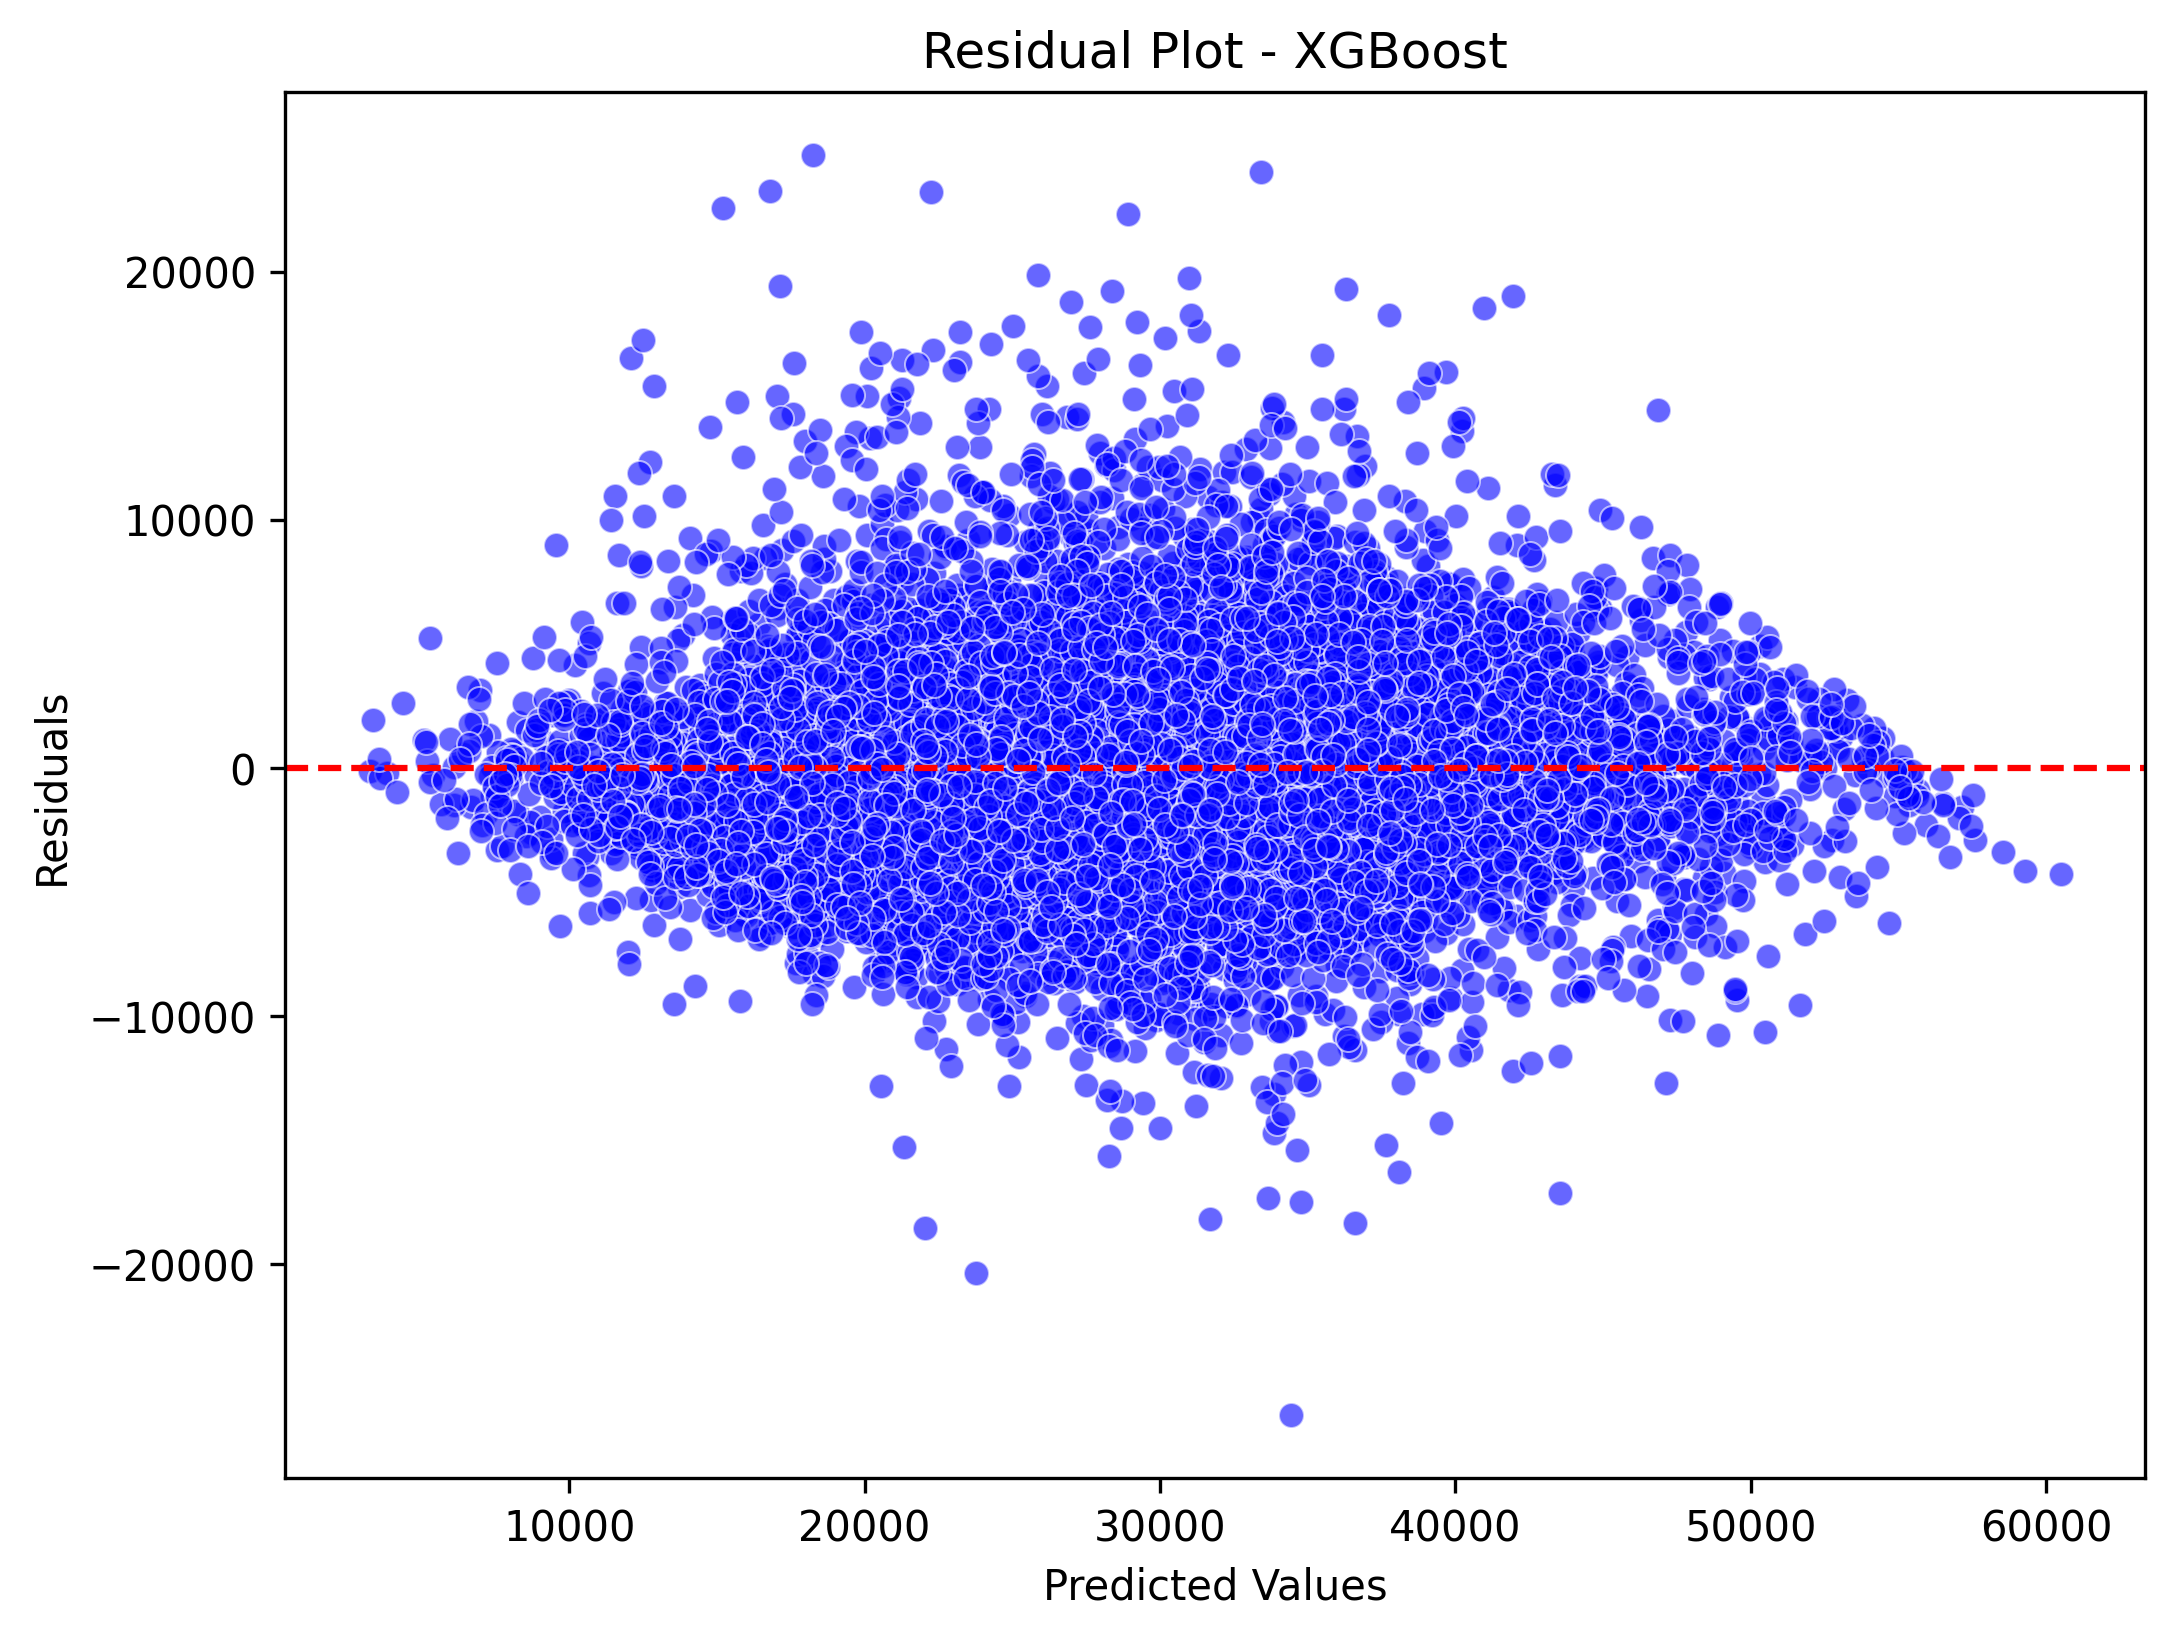
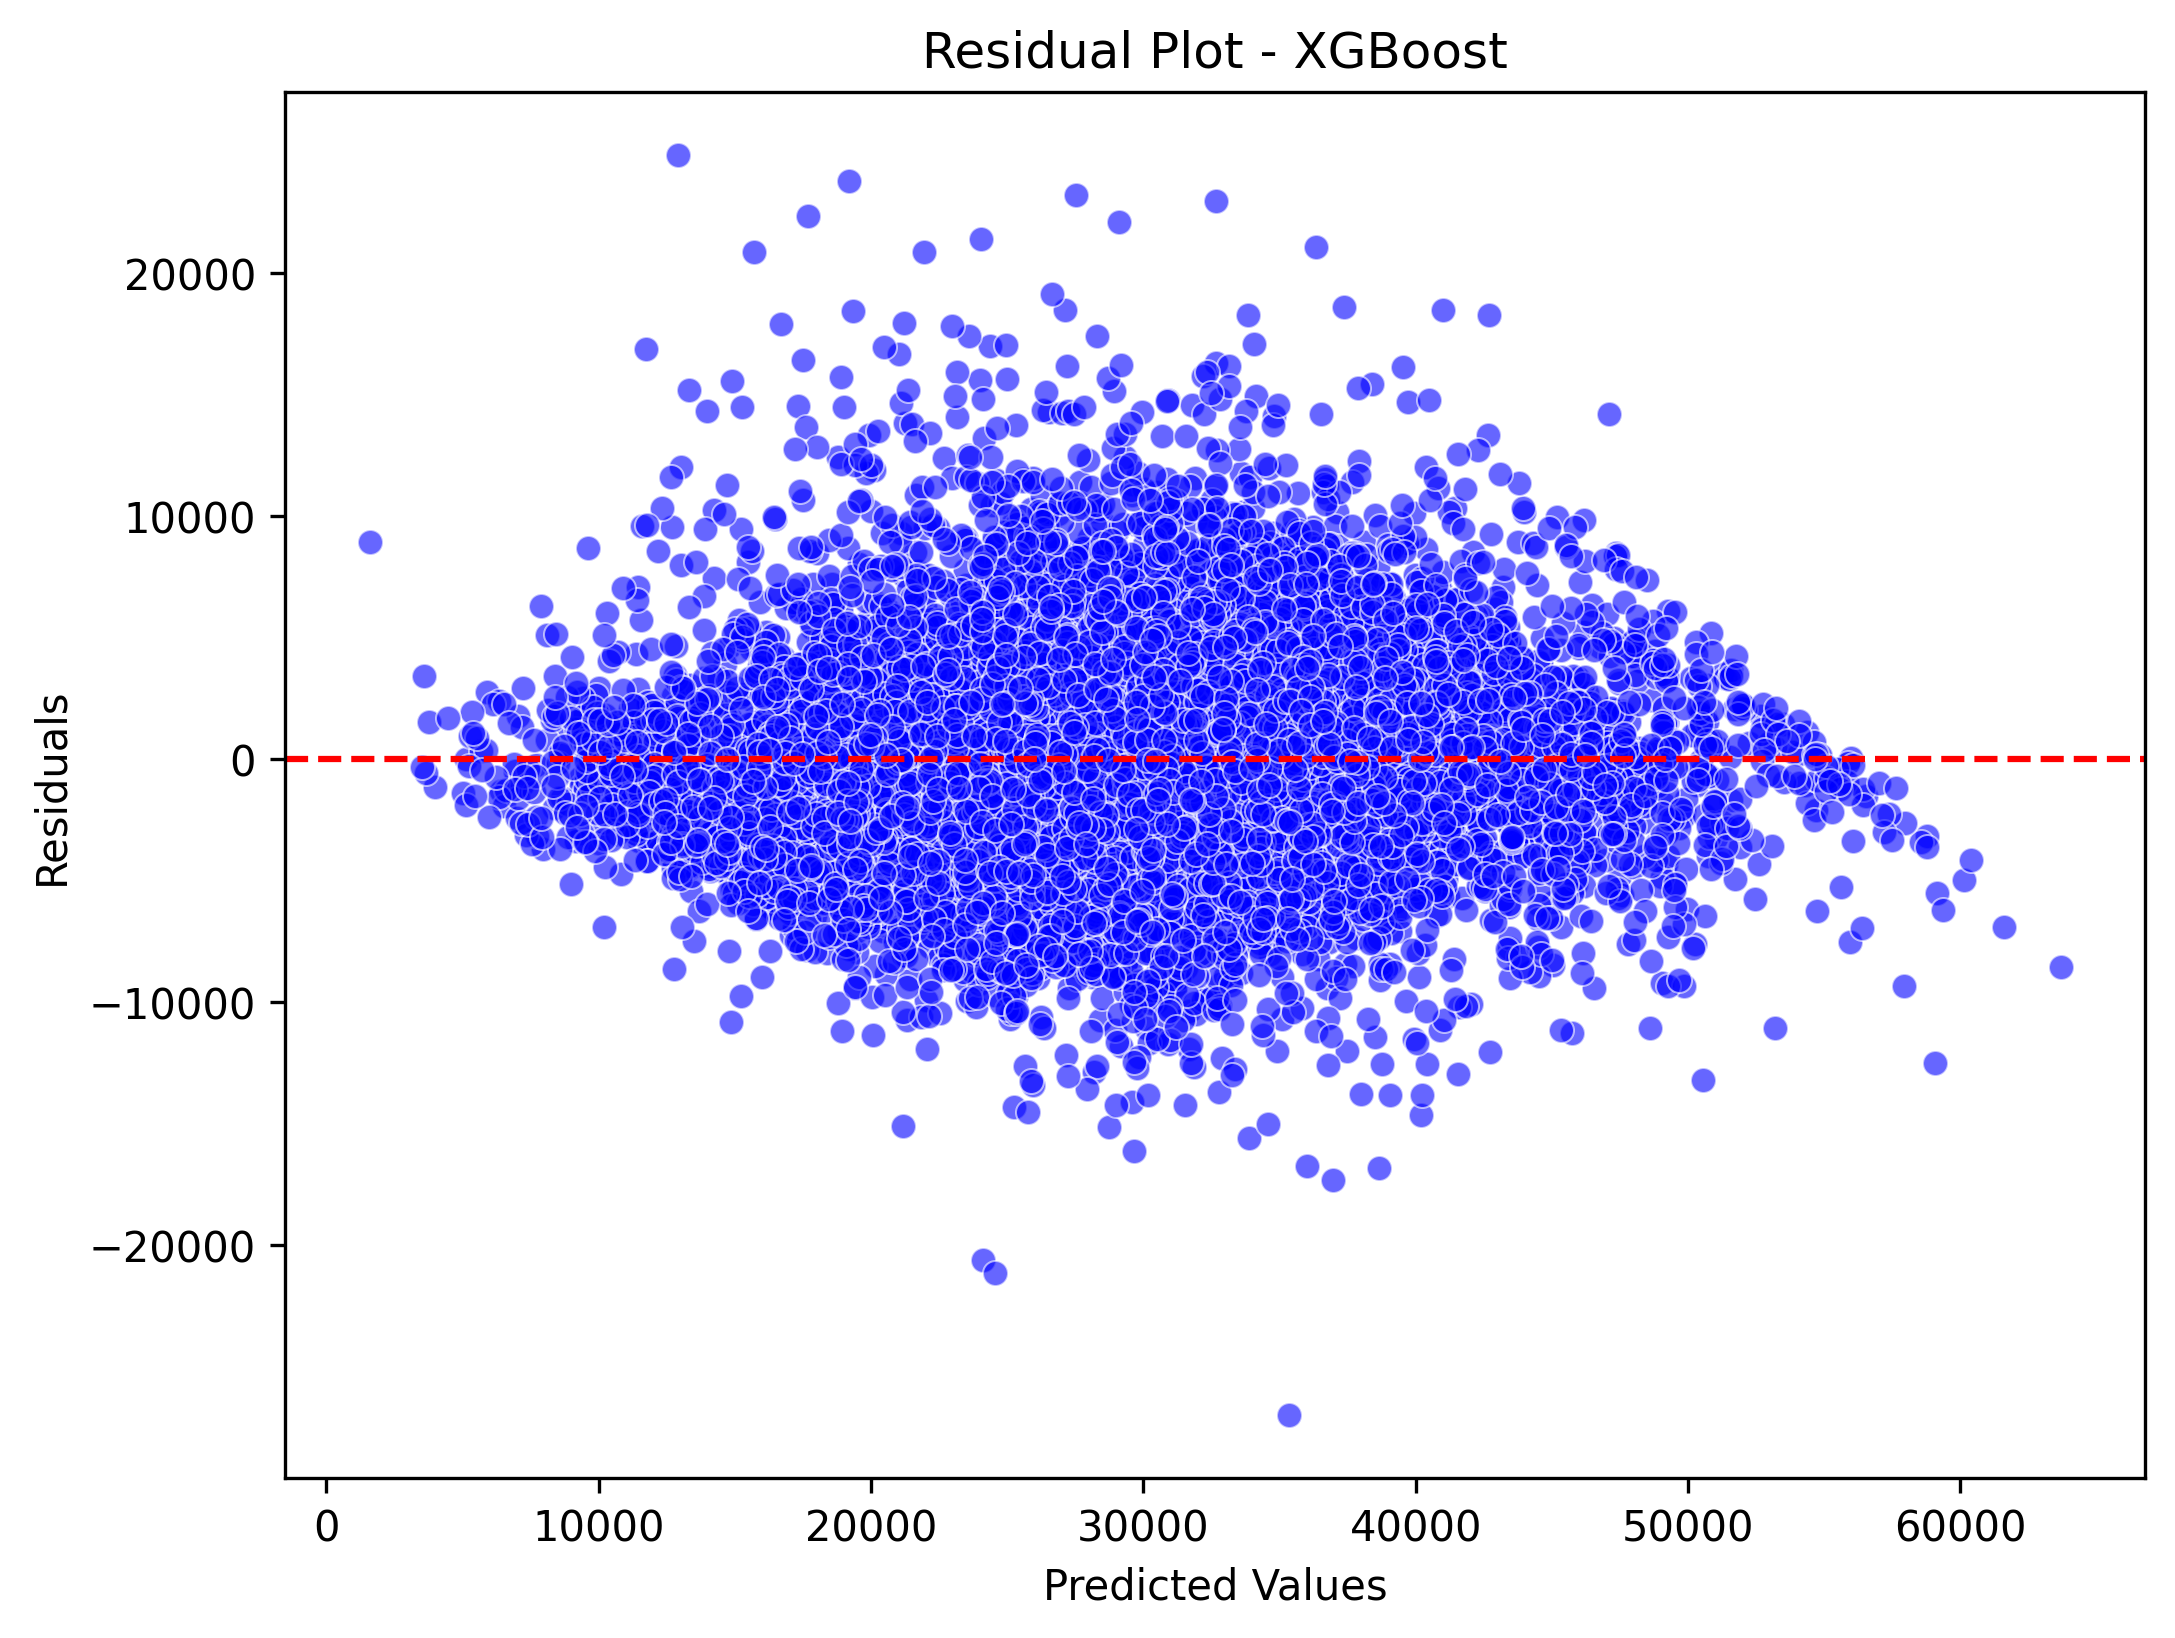
did some better tuning for XGBoost to combat overfitting, added more results visualizations, addded new results

diff --git a/utils/evaluation.py b/utils/evaluation.py
@@ -1,7 +1,9 @@
 import math
+import pandas as pd
 from sklearn.metrics import mean_absolute_error, mean_squared_error, r2_score
 import matplotlib.pyplot as plt
 import seaborn as sns
+import shap
 
 def eval_metrics(y_true, y_pred):
     """
@@ -44,3 +46,60 @@ def plot_residuals(y_true, y_pred, model_name):
     plt.xlabel('Predicted Values')
     plt.ylabel('Residuals')
     plt.savefig(f"plots/residual_plots/{model_name}_residuals.png", dpi=300, bbox_inches="tight")
+
+
+def plot_feature_importances(model, feature_names, model_name, top_n=50):
+    """
+        Plots the top N feature importances from a model.
+    """
+    importances = model.feature_importances_
+    importance_df = pd.DataFrame({
+        'Feature': feature_names,
+        'Importance': importances
+    }).sort_values(by='Importance', ascending=False).head(top_n)
+
+    plt.figure(figsize=(10, 6))
+    plt.barh(importance_df['Feature'], importance_df['Importance'])
+    plt.gca().invert_yaxis()
+    plt.title("Feature Importances")
+    plt.xlabel("Importance")
+    plt.savefig(f"plots/features/{model_name}_feature_importances.png", dpi=300, bbox_inches="tight")
+
+
+def plot_actual_vs_predicted(y_true, y_pred, model_name, title="Actual vs. Predicted Attendance"):
+    """
+        Plots the actual vs predicted values of a model to visualize performance.
+    """
+    plt.figure(figsize=(8, 6))
+    plt.scatter(y_true, y_pred, alpha=0.3)
+    plt.plot([y_true.min(), y_true.max()], [y_true.min(), y_true.max()], 'r--')
+    plt.xlabel("Actual Attendance")
+    plt.ylabel("Predicted Attendance")
+    plt.title(title)
+    plt.savefig(f"plots/{model_name}_actual_vs_predicted.png", dpi=300, bbox_inches="tight")
+
+
+def plot_error_distribution(y_true, y_pred, model_name):
+    """
+        Plots the distribution of prediction errors of a model.
+    """
+    errors = y_pred - y_true
+    plt.figure(figsize=(8, 5))
+    plt.hist(errors, bins=50, edgecolor='k')
+    plt.title("Distribution of Prediction Errors")
+    plt.xlabel("Error")
+    plt.ylabel("Count")
+    plt.grid(True)
+    plt.savefig(f"plots/{model_name}_error_distribution.png", dpi=300, bbox_inches="tight")
+
+
+def plot_shap_summary(model, X_train, model_name):
+    """
+        Generates a SHAP summary plot for a model showing the importances and effects of features.
+    """
+    explainer = shap.Explainer(model)
+    shap_values = explainer(X_train)
+    shap.summary_plot(shap_values, X_train, show=False)
+    plt.tight_layout()
+    plt.title("SHAP Summary Plot")
+    plt.savefig(f"plots/features/{model_name}_shap_summary.png", dpi=300, bbox_inches="tight")

diff --git a/models/xg_boost.py b/models/xg_boost.py
@@ -6,7 +6,7 @@ from sklearn.model_selection import GridSearchCV
 from xgboost import XGBRegressor
 sys.path.append(os.path.abspath(os.path.join(os.path.dirname(__file__), "..")))
 from utils.preprocess import preprocess
-from utils.evaluation import print_metrics, eval_metrics, plot_residuals
+from utils.evaluation import print_metrics, eval_metrics, plot_residuals, plot_feature_importances, plot_actual_vs_predicted, plot_error_distribution, plot_shap_summary
 
 
 def train(game_data):
@@ -35,12 +35,12 @@ def train(game_data):
 
     # grid search with 5-fold CV
     param_grid = {
-        'n_estimators': [200, 300],
-        'max_depth': [7, 10],
-        'learning_rate': [0.01, 0.1],
-        'gamma': [0, 1],
-        'min_child_weight': [15, 20],
-        'reg_alpha': [0.1, 1],
+        'n_estimators': [300],
+        'max_depth': [7],
+        'learning_rate': [0.1],
+        'gamma': [0],
+        'min_child_weight': [15],
+        'reg_alpha': [0, 1],
         'reg_lambda': [5, 10],
     }
     grid_search = GridSearchCV(
@@ -58,7 +58,6 @@ def train(game_data):
     best_params = grid_search.best_params_
     best_model = XGBRegressor(**best_params, objective='reg:squarederror', random_state=42)
     best_model.fit(X_train_processed, y_train, eval_set=[(X_val_processed, y_val)], verbose=False)
-    best_model.save_model('xgboost_model.json')
 
     # make predictions
     y_train_pred = best_model.predict(X_train_processed)
@@ -70,8 +69,13 @@ def train(game_data):
     print_metrics(eval_metrics(y_test, y_test_pred), model_type="XGBoost", dataset_type="Test")
     print()
 
-    # plot residuals
+    # plot residuals, feature importances, SHAP summary, actual vs predicted, and error distribution
+    features_processed = preprocess(features.copy(), model="XGBoost")
     plot_residuals(y_test, y_test_pred, model_name="XGBoost")
+    plot_feature_importances(best_model, features_processed.columns, "XGBoost", top_n=50)
+    plot_actual_vs_predicted(y_test, y_test_pred, "XGBoost")
+    plot_error_distribution(y_test, y_test_pred, "XGBoost")
+    plot_shap_summary(best_model, X_train_processed, model_name="XGBoost")
 
     # perform cross-validation on full preprocessed set
     X_all = pd.concat([X_train, X_val, X_test])
@@ -88,7 +92,7 @@ def main():
         Performs preprocessing and training for an XGBoost model.
     """
     game_data = pd.read_csv("data/MLB_games_2000-2024.csv")
-    train(game_data)
+    model = train(game_data)
 
     
 if __name__ == "__main__":
